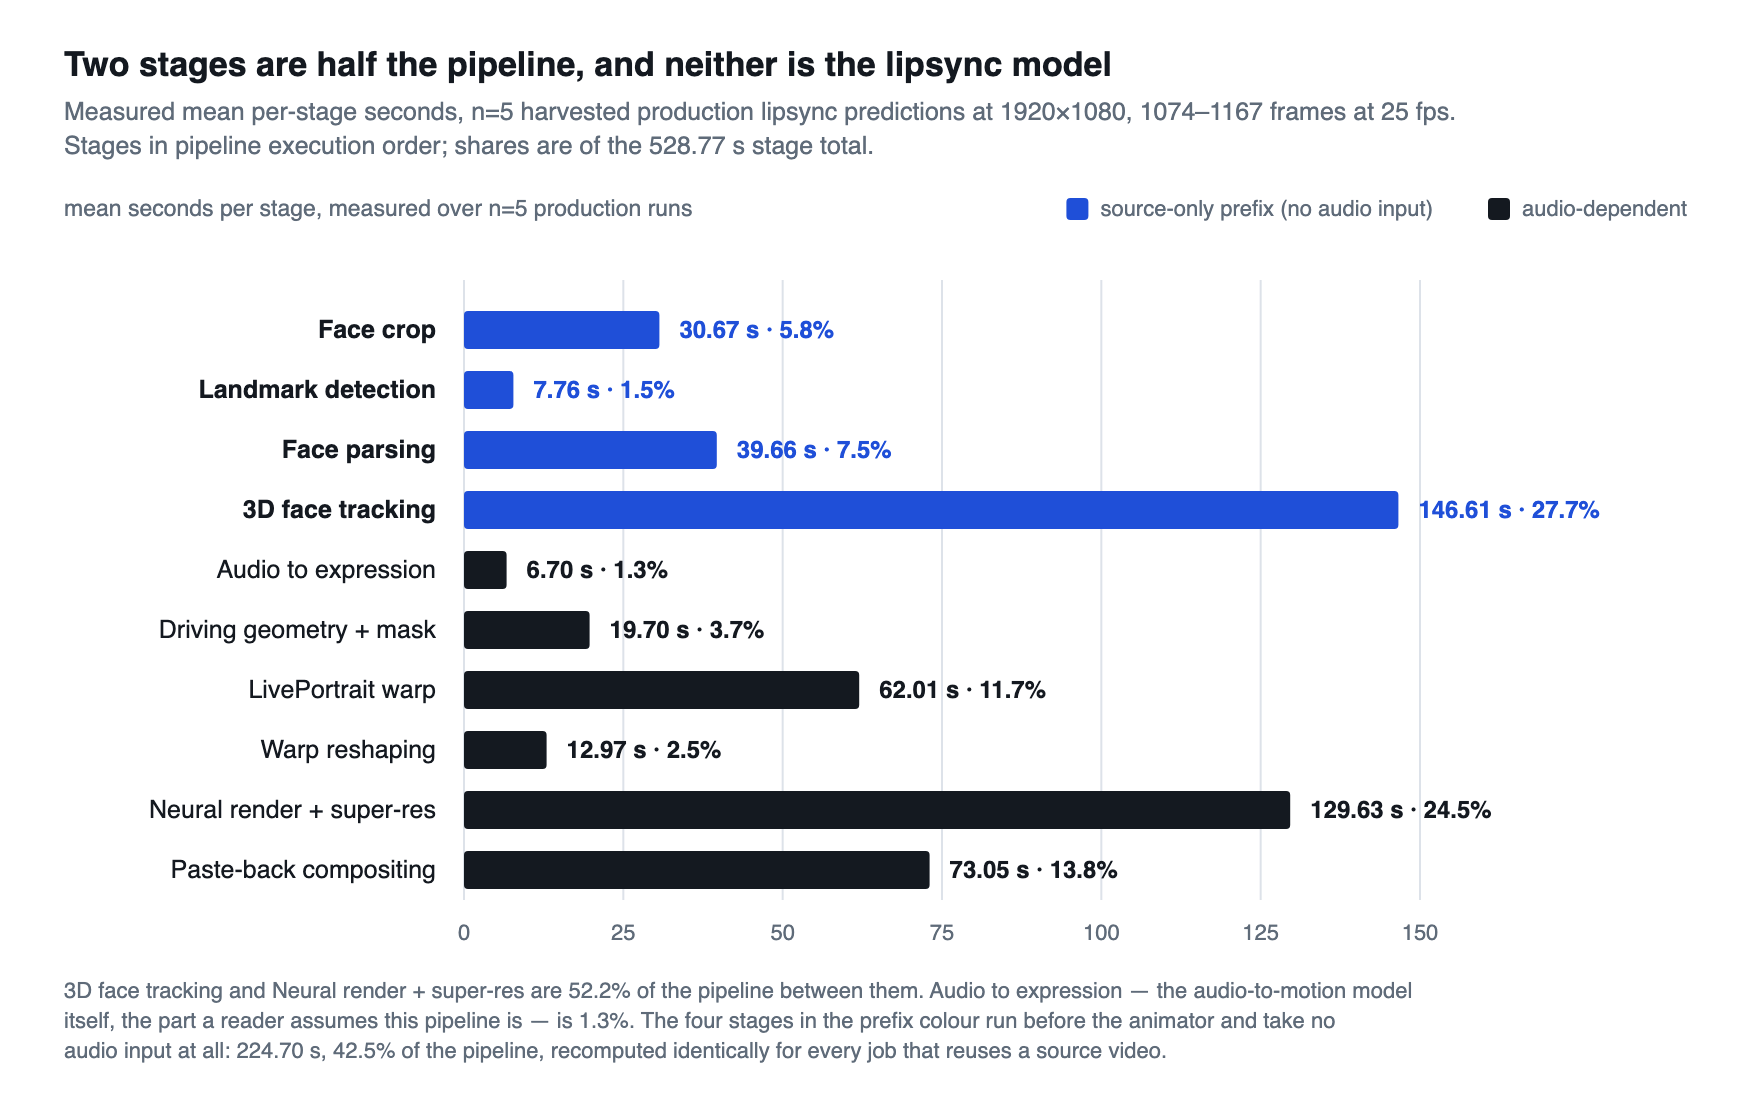
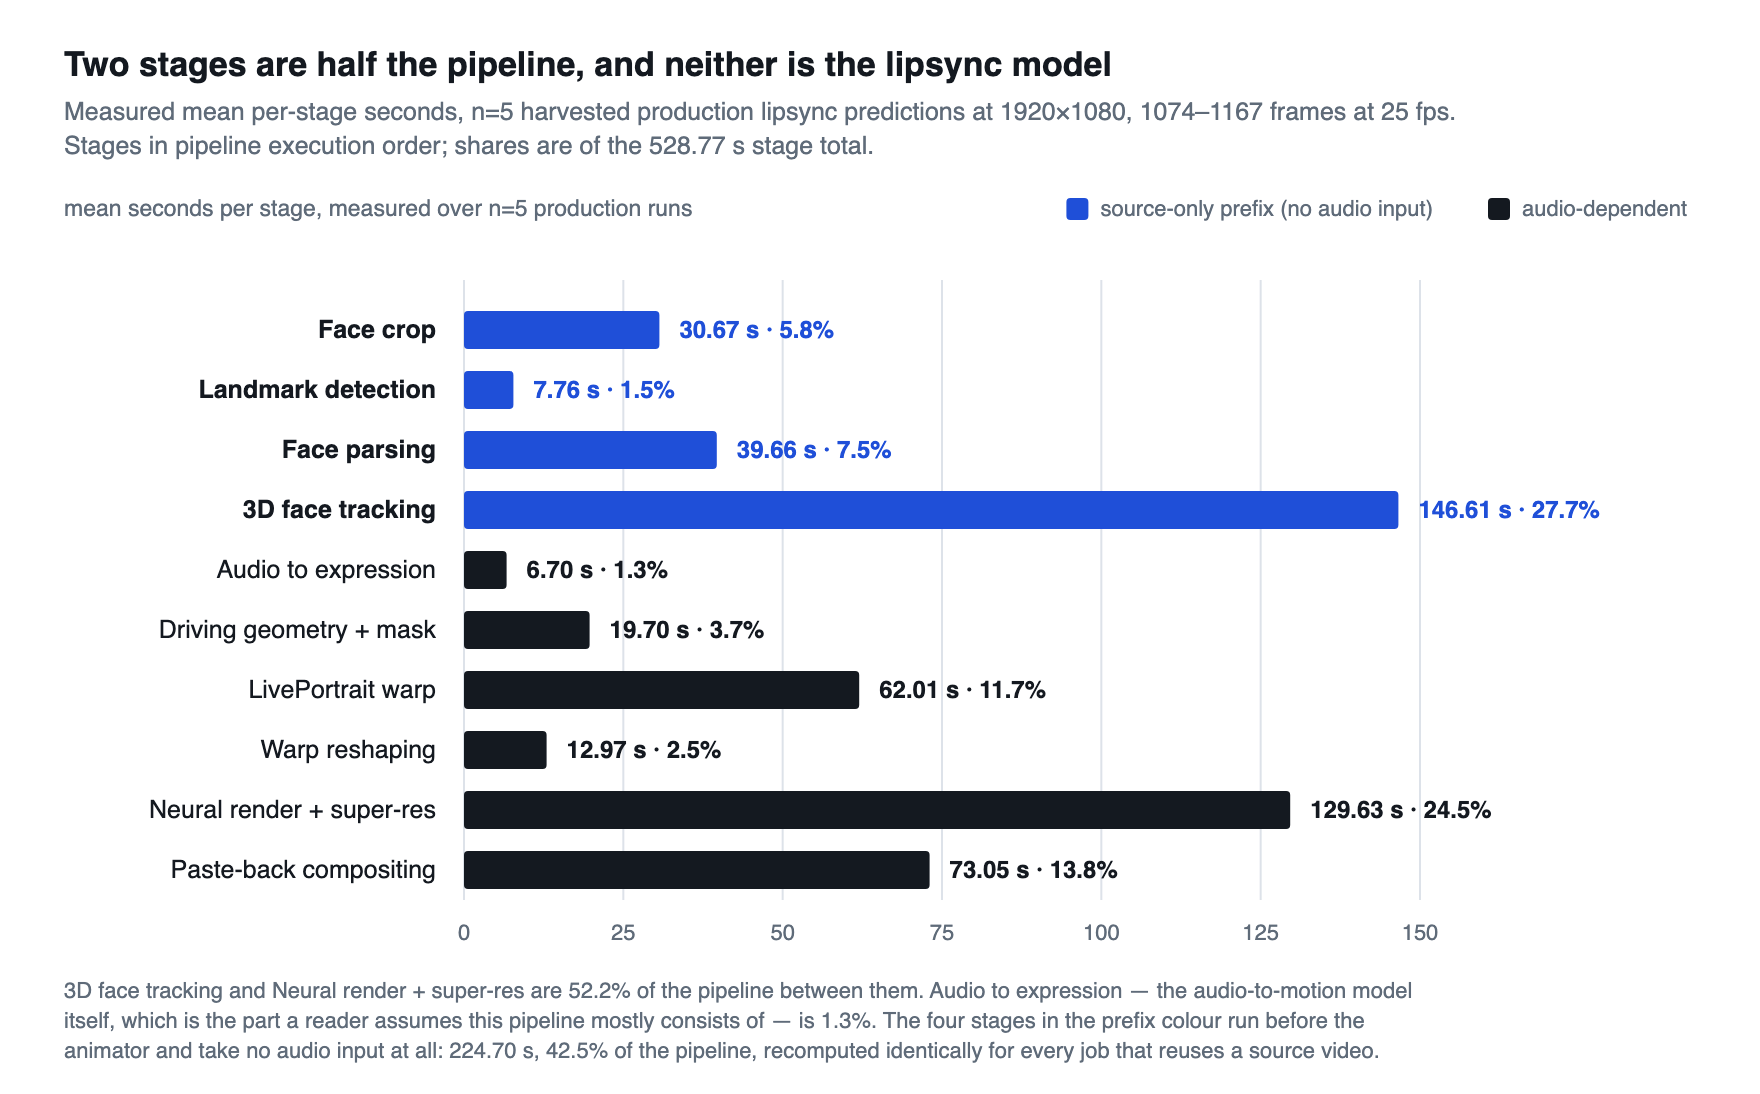
Reword the stage-profile note; ignore .vercel
The first deploy went out from the working directory rather than from the
committed tree, so the served page was built from an uncommitted edit to the
figure note. That is the drift the whole chain exists to prevent, so this commits
the edit and the deploy is repeated from the committed state, then compared
byte-for-byte against the live page.

Changed region(s): [[0.0625, 0.9013, 0.7812, 0.9945]]

diff --git a/web/results-pack.html b/web/results-pack.html
@@ -349,8 +349,8 @@ ol.sources li { font-size:13.8px; margin:0 0 11px; max-width:82ch; }
 <rect x="232" y="425.5" width="232.8" height="19" fill="var(--fig-ink)" rx="2"/>
 <text x="474.8" y="439" font-family="ui-sans-serif, -apple-system, 'Segoe UI', Helvetica, Arial, sans-serif" font-size="12" fill="var(--fig-ink)" text-anchor="start" font-weight="600" opacity="1">73.05 s · 13.8%</text>
 <text x="32" y="499" font-family="ui-sans-serif, -apple-system, 'Segoe UI', Helvetica, Arial, sans-serif" font-size="11" fill="var(--fig-muted)" text-anchor="start" font-weight="400" opacity="1">3D face tracking and Neural render + super-res are 52.2% of the pipeline between them. Audio to expression — the audio-to-motion model</text>
-<text x="32" y="514" font-family="ui-sans-serif, -apple-system, 'Segoe UI', Helvetica, Arial, sans-serif" font-size="11" fill="var(--fig-muted)" text-anchor="start" font-weight="400" opacity="1">itself, the part a reader assumes this pipeline is — is 1.3%. The four stages in the prefix colour run before the animator and take no</text>
-<text x="32" y="529" font-family="ui-sans-serif, -apple-system, 'Segoe UI', Helvetica, Arial, sans-serif" font-size="11" fill="var(--fig-muted)" text-anchor="start" font-weight="400" opacity="1">audio input at all: 224.70 s, 42.5% of the pipeline, recomputed identically for every job that reuses a source video.</text>
+<text x="32" y="514" font-family="ui-sans-serif, -apple-system, 'Segoe UI', Helvetica, Arial, sans-serif" font-size="11" fill="var(--fig-muted)" text-anchor="start" font-weight="400" opacity="1">itself, which is the part a reader assumes this pipeline mostly consists of — is 1.3%. The four stages in the prefix colour run before the</text>
+<text x="32" y="529" font-family="ui-sans-serif, -apple-system, 'Segoe UI', Helvetica, Arial, sans-serif" font-size="11" fill="var(--fig-muted)" text-anchor="start" font-weight="400" opacity="1">animator and take no audio input at all: 224.70 s, 42.5% of the pipeline, recomputed identically for every job that reuses a source video.</text>
 </svg></div>
   <p class="meta"><b>What it shows</b>Mean seconds per pipeline stage for production lipsync, in execution order, with each stage’s share of the pipeline. The four stages before the animator take no audio input and are marked as the cacheable prefix.</p>
   <p class="meta"><b>Basis</b>Measured, n=5 driven predictions at 1920×1080.</p>

diff --git a/web/index.html b/web/index.html
@@ -316,8 +316,8 @@ optimization was kept. Both measurable roadmap items were rejected on their own 
 <rect x="232" y="425.5" width="232.8" height="19" fill="var(--fig-ink)" rx="2"/>
 <text x="474.8" y="439" font-family="ui-sans-serif, -apple-system, 'Segoe UI', Helvetica, Arial, sans-serif" font-size="12" fill="var(--fig-ink)" text-anchor="start" font-weight="600" opacity="1">73.05 s · 13.8%</text>
 <text x="32" y="499" font-family="ui-sans-serif, -apple-system, 'Segoe UI', Helvetica, Arial, sans-serif" font-size="11" fill="var(--fig-muted)" text-anchor="start" font-weight="400" opacity="1">3D face tracking and Neural render + super-res are 52.2% of the pipeline between them. Audio to expression — the audio-to-motion model</text>
-<text x="32" y="514" font-family="ui-sans-serif, -apple-system, 'Segoe UI', Helvetica, Arial, sans-serif" font-size="11" fill="var(--fig-muted)" text-anchor="start" font-weight="400" opacity="1">itself, the part a reader assumes this pipeline is — is 1.3%. The four stages in the prefix colour run before the animator and take no</text>
-<text x="32" y="529" font-family="ui-sans-serif, -apple-system, 'Segoe UI', Helvetica, Arial, sans-serif" font-size="11" fill="var(--fig-muted)" text-anchor="start" font-weight="400" opacity="1">audio input at all: 224.70 s, 42.5% of the pipeline, recomputed identically for every job that reuses a source video.</text>
+<text x="32" y="514" font-family="ui-sans-serif, -apple-system, 'Segoe UI', Helvetica, Arial, sans-serif" font-size="11" fill="var(--fig-muted)" text-anchor="start" font-weight="400" opacity="1">itself, which is the part a reader assumes this pipeline mostly consists of — is 1.3%. The four stages in the prefix colour run before the</text>
+<text x="32" y="529" font-family="ui-sans-serif, -apple-system, 'Segoe UI', Helvetica, Arial, sans-serif" font-size="11" fill="var(--fig-muted)" text-anchor="start" font-weight="400" opacity="1">animator and take no audio input at all: 224.70 s, 42.5% of the pipeline, recomputed identically for every job that reuses a source video.</text>
 </svg></div>
   <figcaption><b>F1</b>Per-stage mean for production lipsync, in pipeline execution order. The four stages before the animator take no audio input.</figcaption>
 </figure>
